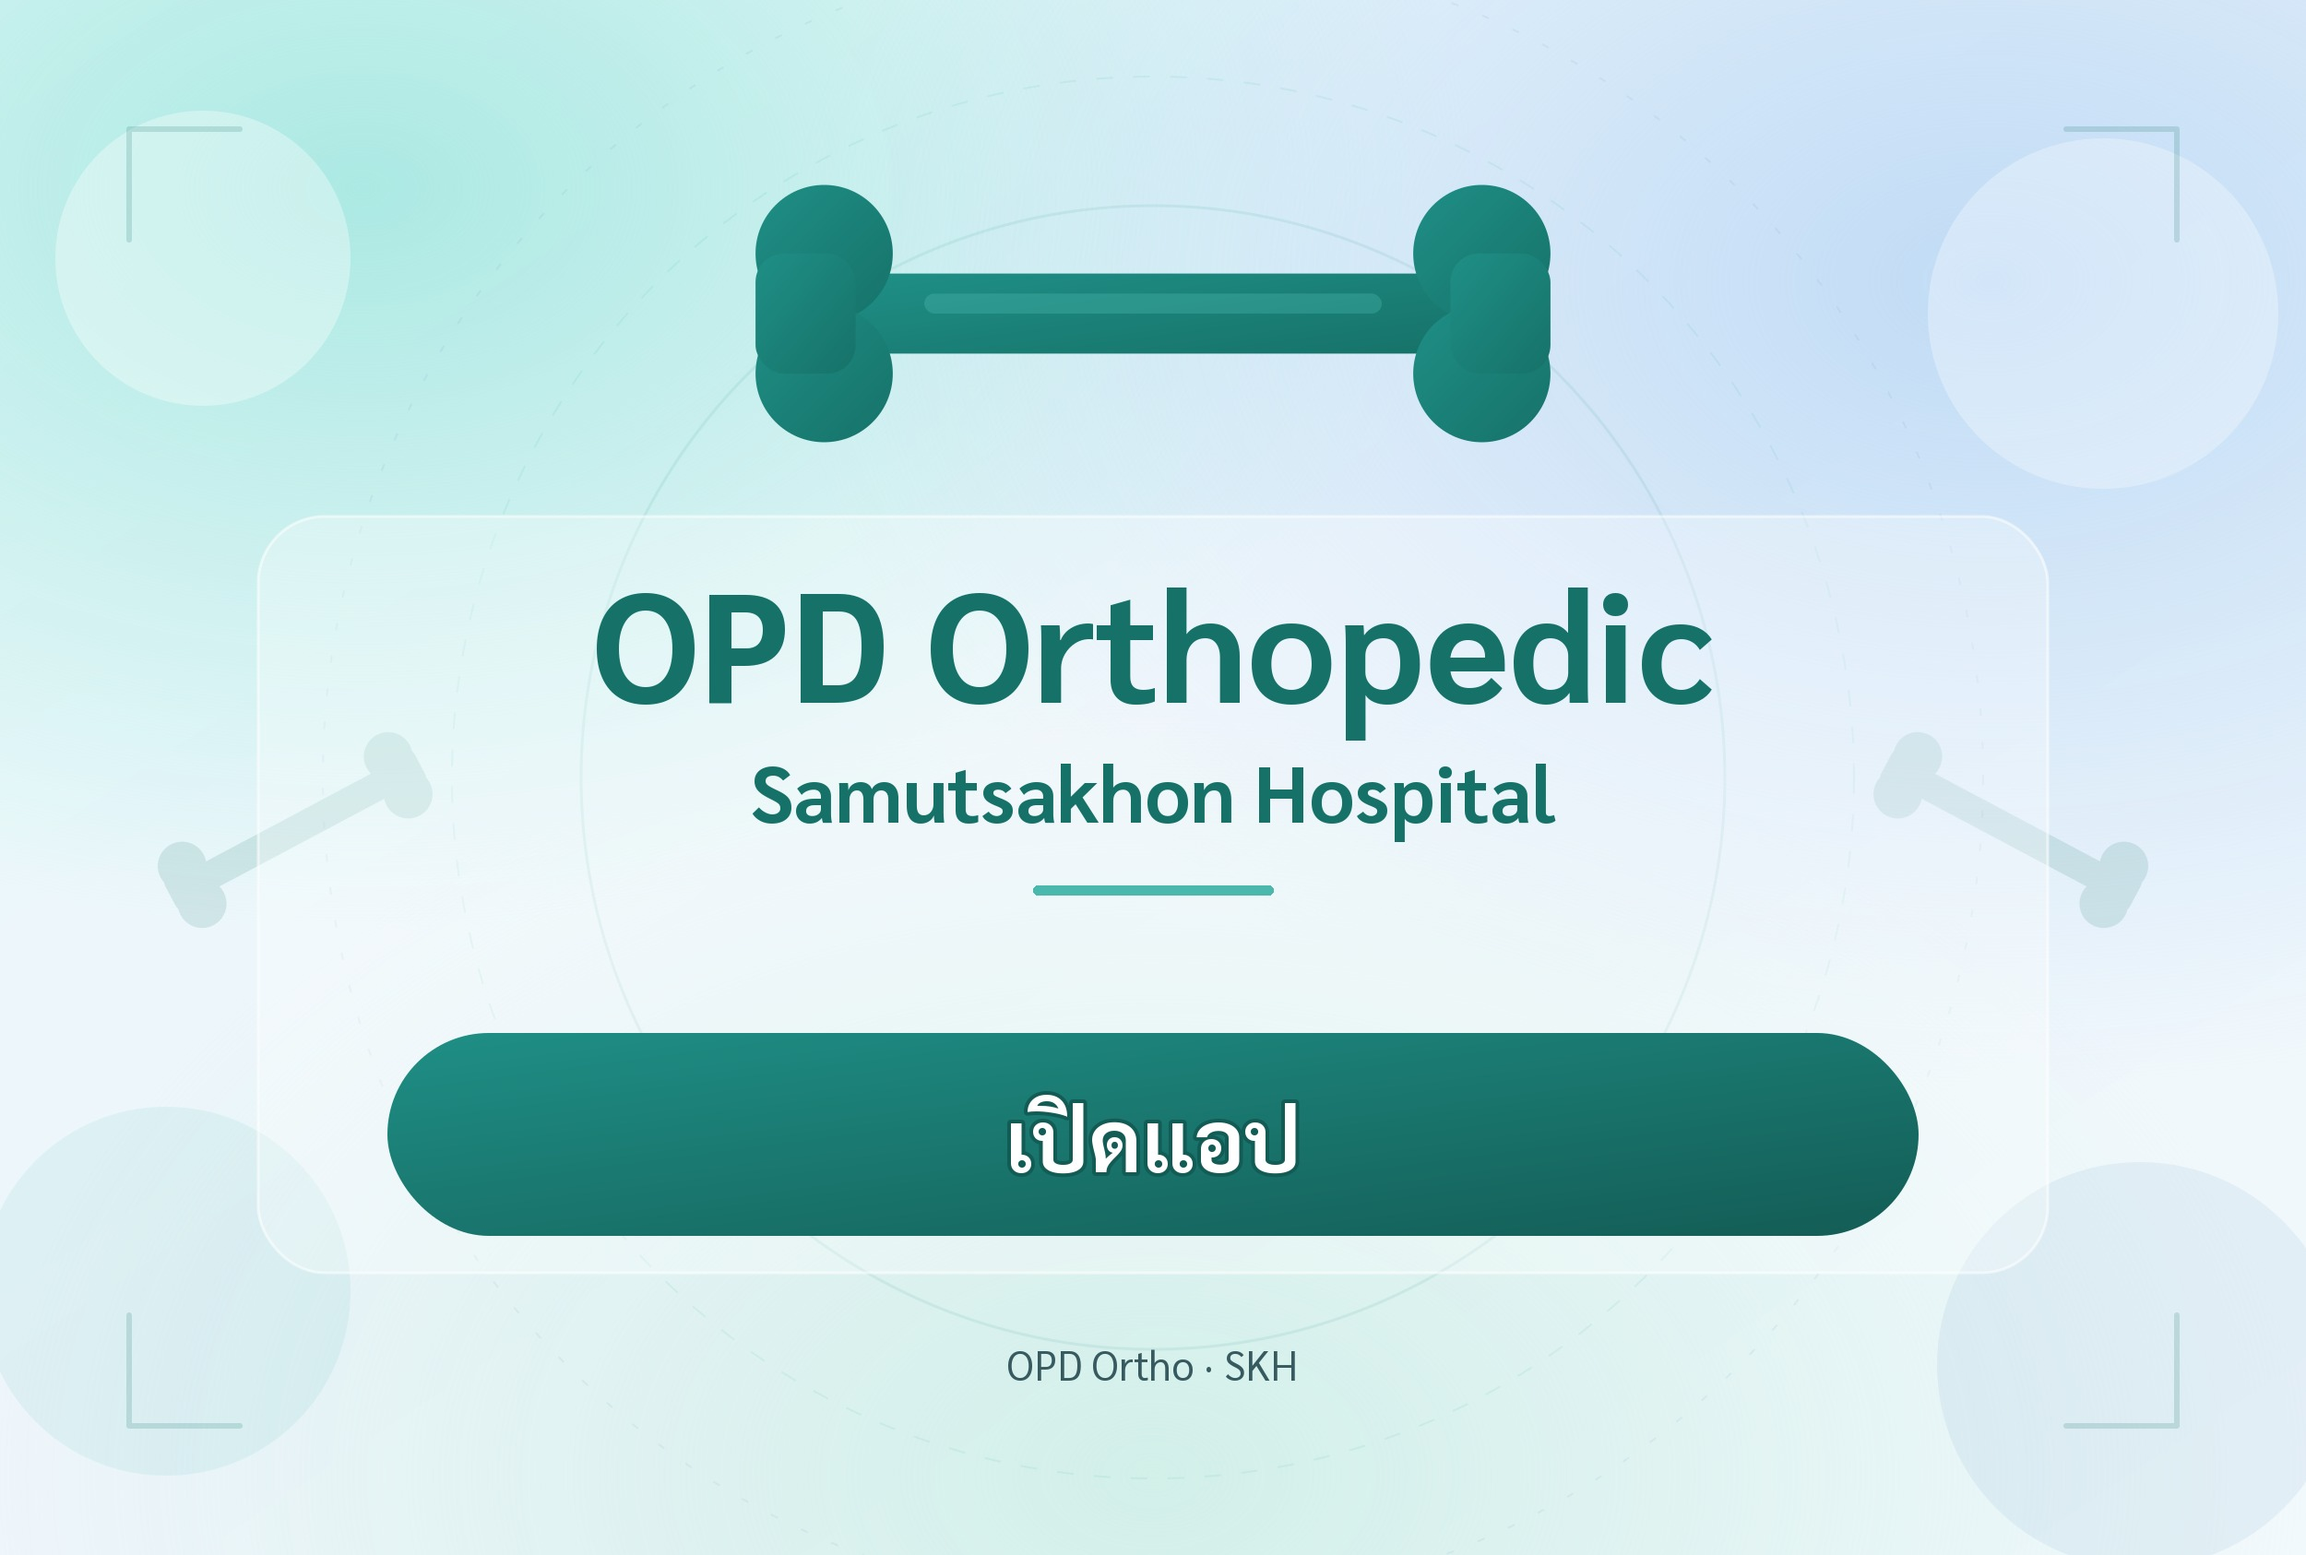
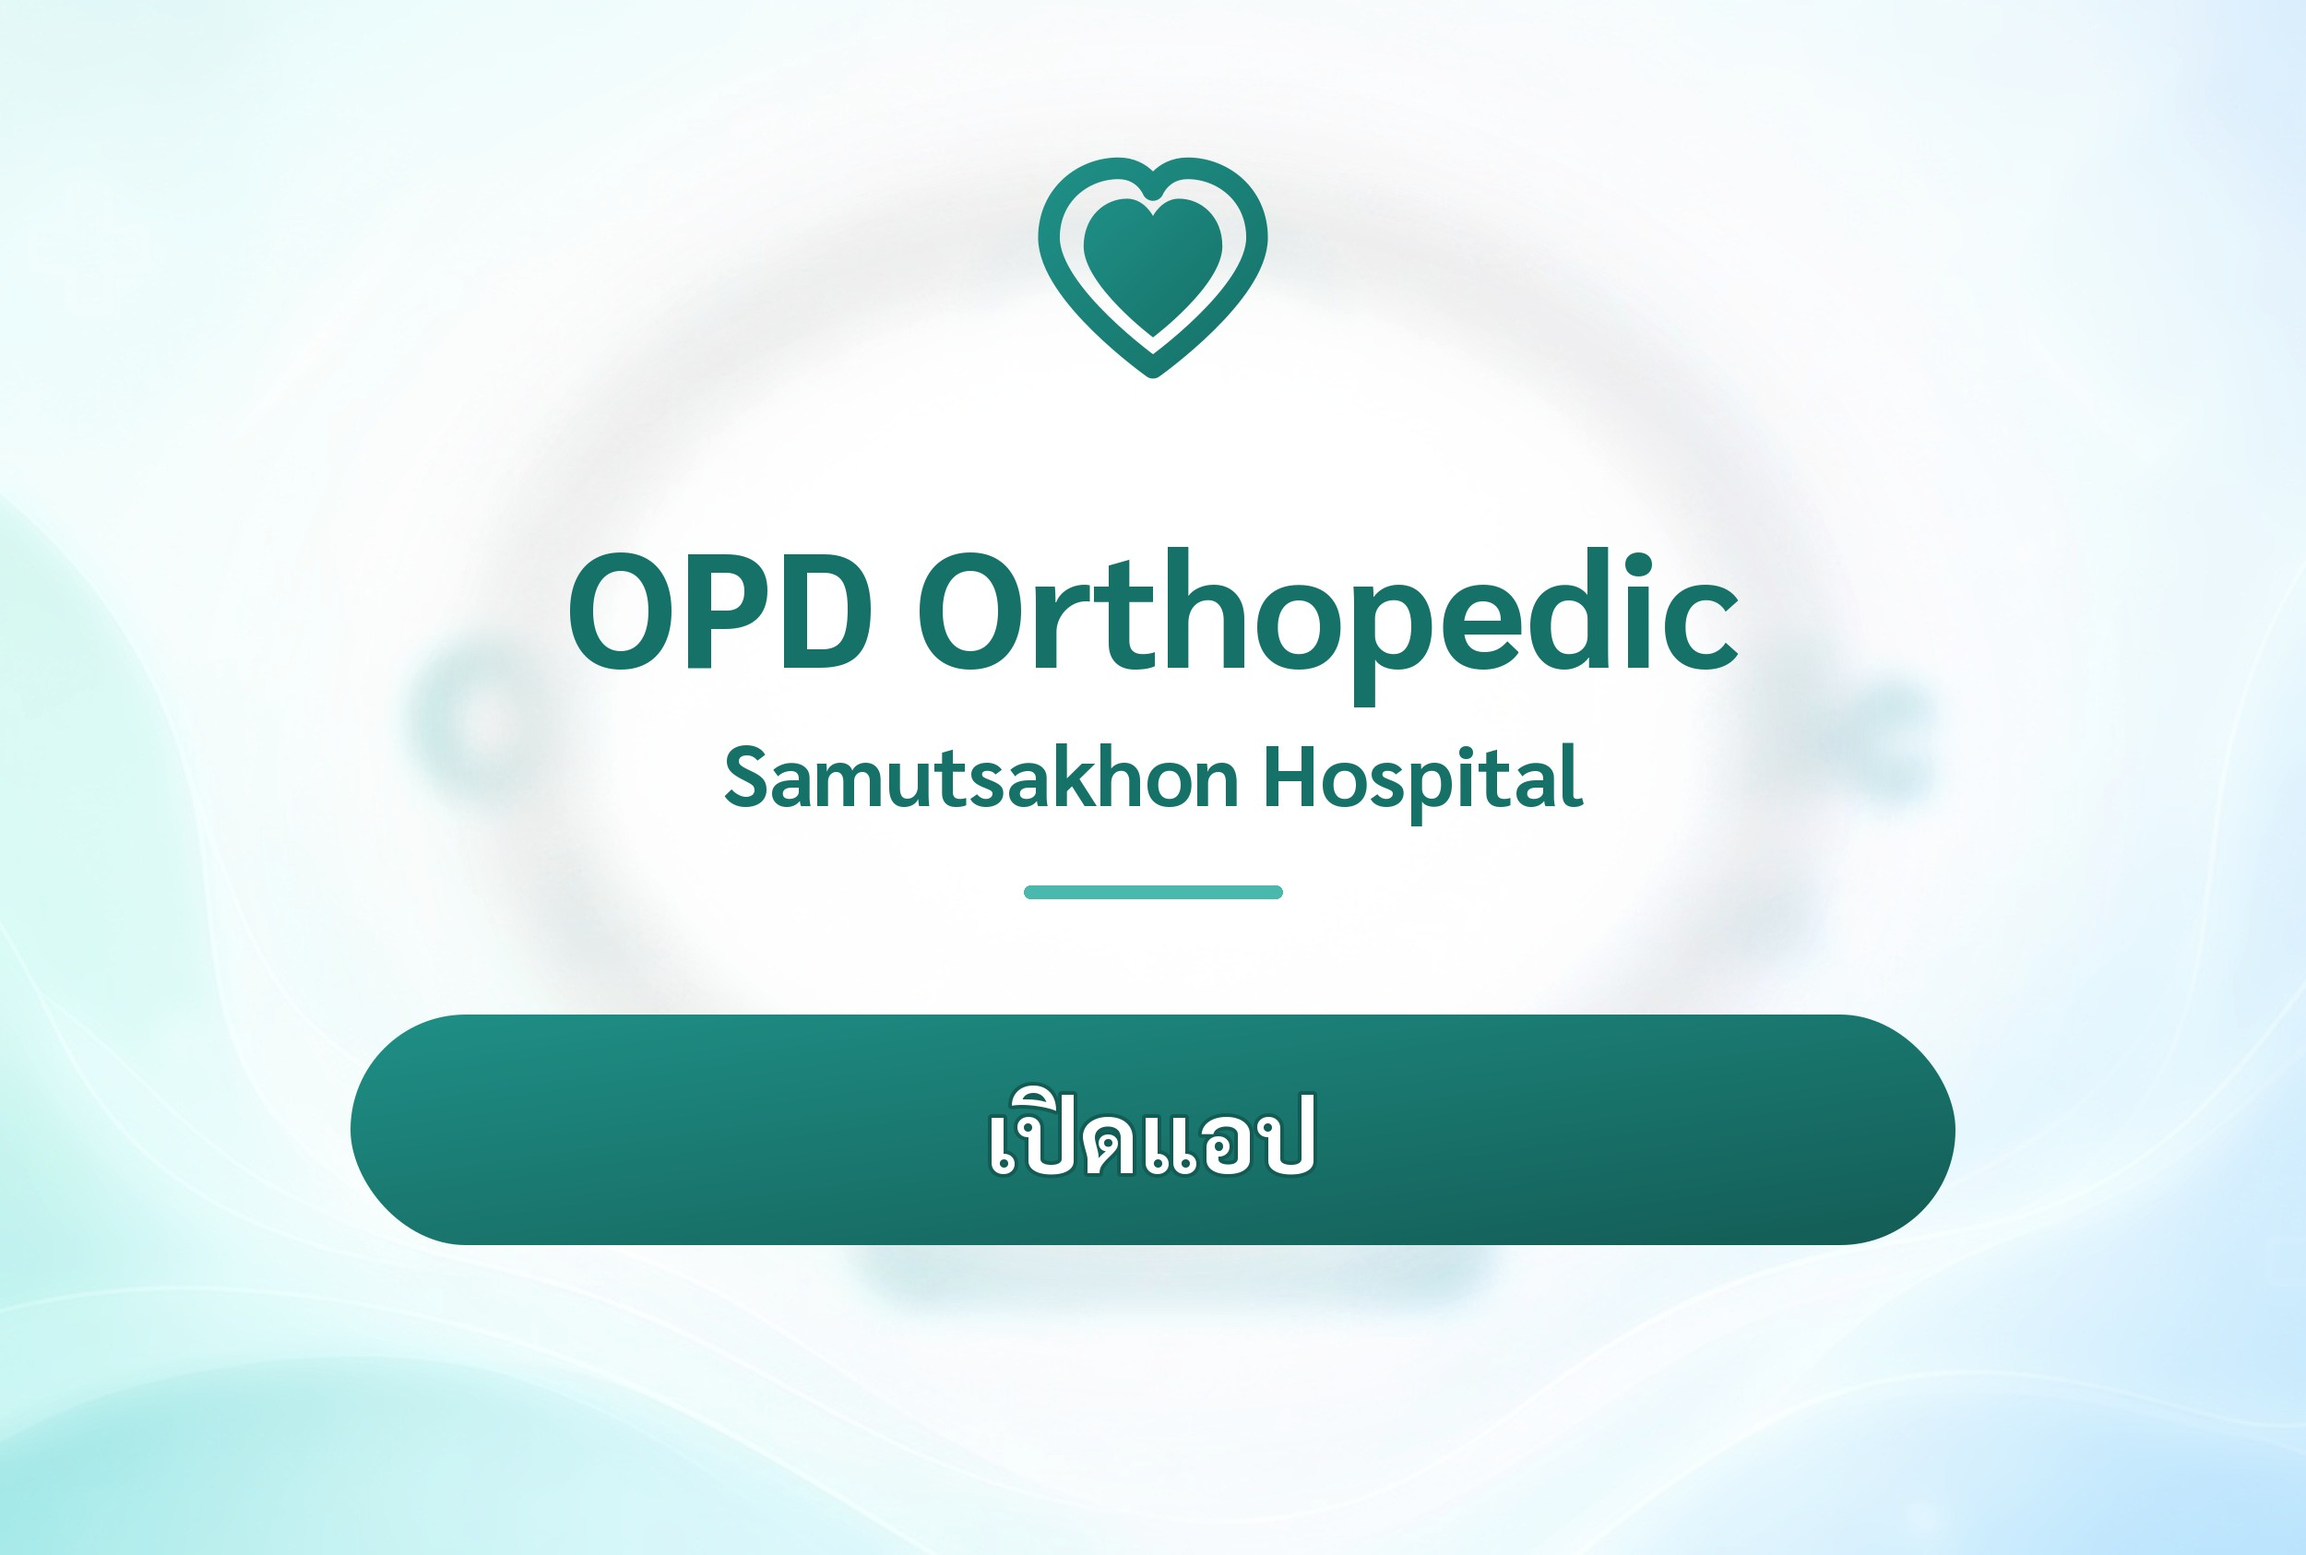
Restore heart LINE rich menu (solid inner, no EKG) (#104)
* Redesign rich menu with AI atmosphere and crisp Sarabun type

Replace the programmatic SVG banner with an AI teal-glass orthopedic
atmosphere (X-ray corners), then overlay a bone mark and Sarabun
titles/CTA so Thai stays sharp at 2500×1686 under LINE’s 1 MB limit.

* Restore heart + EKG rich menu design users preferred

Bring back the teal heart with heartbeat mark on the AI atmosphere,
keeping full-height 2500×1686 layout and crisp Sarabun CTA type.

* Replace EKG with solid inner heart on rich menu mark

Keep the teal heart outline and fill a smaller solid heart inside;
drop the heartbeat zigzag.

---------

diff --git a/line/rich-menu/generate-image.py b/line/rich-menu/generate-image.py
@@ -1,9 +1,9 @@
 #!/usr/bin/env python3
-"""Generate the OPD Ortho SKH LINE rich-menu image (2500x1686 JPEG).
+"""Compose the OPD Ortho SKH LINE rich-menu image (2500×1686 JPEG).
 
-Full-height menu for mobile readability: large bone mark, bold type,
-wide CTA, soft decorative accents. JPEG under LINE’s 1 MB limit.
-Thai text drawn with Pillow + Sarabun.
+Uses an AI-generated atmosphere (`source.jpg`) as the full-bleed background,
+then overlays a crisp heart mark (outline + solid inner), Sarabun typography, and CTA for mobile
+readability. Output must stay under LINE’s 1 MB limit.
 """
 
 from __future__ import annotations
@@ -12,43 +12,36 @@ from io import BytesIO
 from pathlib import Path
 
 import cairosvg
-from PIL import Image, ImageDraw, ImageFont
+from PIL import Image, ImageDraw, ImageEnhance, ImageFilter, ImageFont
 
-ROOT = Path(__file__).resolve().parents[2]
-OUT = Path(__file__).resolve().parent / "richmenu.jpg"
+DIR = Path(__file__).resolve().parent
+ROOT = DIR.parents[1]
+SOURCE = DIR / "source.jpg"
+OUT = DIR / "richmenu.jpg"
 FONT_BOLD = ROOT / "public" / "fonts" / "Sarabun-Bold.ttf"
-FONT_REG = ROOT / "public" / "fonts" / "Sarabun-Regular.ttf"
 
-# Full-size rich menu (2× compact height) — room for large iPhone type.
 W, H = 2500, 1686
 BRAND = (22, 114, 105)
 ACCENT = (75, 184, 174)
-MUTED = (55, 90, 96)
 
 
-def build_atmosphere_svg() -> str:
-    """Background, decorations, bone, and CTA pill (labels via Pillow)."""
+def cover_crop(im: Image.Image, tw: int, th: int) -> Image.Image:
+    im = im.convert("RGB")
+    sw, sh = im.size
+    scale = max(tw / sw, th / sh)
+    nw, nh = int(round(sw * scale)), int(round(sh * scale))
+    im = im.resize((nw, nh), Image.Resampling.LANCZOS)
+    left = (nw - tw) // 2
+    top = (nh - th) // 2
+    return im.crop((left, top, left + tw, top + th))
+
+
+def overlays_svg() -> str:
+    """Heart mark (outline + solid inner) and CTA pill (labels via Pillow)."""
     return f"""<?xml version="1.0" encoding="UTF-8"?>
 <svg xmlns="http://www.w3.org/2000/svg" width="{W}" height="{H}" viewBox="0 0 {W} {H}">
   <defs>
-    <linearGradient id="wash" x1="0%" y1="0%" x2="100%" y2="100%">
-      <stop offset="0%" stop-color="#eafbfa"/>
-      <stop offset="48%" stop-color="#eef5fb"/>
-      <stop offset="100%" stop-color="#f2f9fc"/>
-    </linearGradient>
-    <radialGradient id="blobTeal" cx="16%" cy="12%" r="48%">
-      <stop offset="0%" stop-color="#a9e8e2" stop-opacity="0.95"/>
-      <stop offset="100%" stop-color="#a9e8e2" stop-opacity="0"/>
-    </radialGradient>
-    <radialGradient id="blobBlue" cx="86%" cy="18%" r="52%">
-      <stop offset="0%" stop-color="#bcd9f5" stop-opacity="0.9"/>
-      <stop offset="100%" stop-color="#bcd9f5" stop-opacity="0"/>
-    </radialGradient>
-    <radialGradient id="blobMint" cx="50%" cy="95%" r="50%">
-      <stop offset="0%" stop-color="#cdeee6" stop-opacity="0.85"/>
-      <stop offset="100%" stop-color="#cdeee6" stop-opacity="0"/>
-    </radialGradient>
-    <linearGradient id="boneFill" x1="0%" y1="0%" x2="100%" y2="100%">
+    <linearGradient id="heartFill" x1="0%" y1="0%" x2="100%" y2="100%">
       <stop offset="0%" stop-color="#1f8f86"/>
       <stop offset="100%" stop-color="#167269"/>
     </linearGradient>
@@ -56,72 +49,35 @@ def build_atmosphere_svg() -> str:
       <stop offset="0%" stop-color="#1f8f86"/>
       <stop offset="100%" stop-color="#135c55"/>
     </linearGradient>
+    <filter id="softShadow" x="-40%" y="-40%" width="180%" height="180%">
+      <feDropShadow dx="0" dy="12" stdDeviation="20" flood-color="#0d4a44" flood-opacity="0.28"/>
+    </filter>
   </defs>
 
-  <rect width="{W}" height="{H}" fill="url(#wash)"/>
-  <rect width="{W}" height="{H}" fill="url(#blobTeal)"/>
-  <rect width="{W}" height="{H}" fill="url(#blobBlue)"/>
-  <rect width="{W}" height="{H}" fill="url(#blobMint)"/>
-
-  <!-- Soft glass orbs -->
-  <circle cx="220" cy="280" r="170" fill="#ffffff" opacity="0.38"/>
-  <circle cx="2280" cy="340" r="200" fill="#ffffff" opacity="0.32"/>
-  <circle cx="200" cy="1420" r="210" fill="#4bb8ae" opacity="0.12"/>
-  <circle cx="2300" cy="1500" r="230" fill="#3574b5" opacity="0.09"/>
-
-  <!-- Concentric dashed rings -->
-  <circle cx="1250" cy="843" r="560" fill="none" stroke="#1f8f86" stroke-width="3" opacity="0.11"/>
-  <circle cx="1250" cy="843" r="700" fill="none" stroke="#4bb8ae" stroke-width="2.5" opacity="0.14"
-    stroke-dasharray="18 22"/>
-  <circle cx="1250" cy="843" r="860" fill="none" stroke="#3574b5" stroke-width="2" opacity="0.10"
-    stroke-dasharray="8 28"/>
-
-  <!-- Corner measure ticks -->
-  <g stroke="#167269" stroke-width="7" stroke-linecap="round" opacity="0.20">
-    <path d="M150 150 H280 M150 150 V280"/>
-    <path d="M2350 150 H2220 M2350 150 V280"/>
-    <path d="M150 1536 H280 M150 1536 V1406"/>
-    <path d="M2350 1536 H2220 M2350 1536 V1406"/>
+  <!-- Heart outline with solid inner heart -->
+  <g transform="translate(1250, 300) scale(2.35)" filter="url(#softShadow)">
+    <path d="M0 42
+      C0 42 -48 8 -48 -18
+      C-48 -38 -32 -50 -16 -50
+      C-4 -50 0 -40 0 -40
+      C0 -40 4 -50 16 -50
+      C32 -50 48 -38 48 -18
+      C48 8 0 42 0 42 Z"
+      fill="none" stroke="url(#heartFill)" stroke-width="10"
+      stroke-linejoin="round" stroke-linecap="round"/>
+    <!-- Solid inner heart -->
+    <path d="M0 28
+      C0 28 -32 4 -32 -14
+      C-32 -28 -22 -36 -12 -36
+      C-4 -36 0 -28 0 -28
+      C0 -28 4 -36 12 -36
+      C22 -36 32 -28 32 -14
+      C32 4 0 28 0 28 Z"
+      fill="url(#heartFill)"/>
   </g>
 
-  <!-- Faded side bones -->
-  <g transform="translate(300, 920) rotate(-30) scale(0.58)" opacity="0.13">
-    <rect x="-210" y="-28" width="420" height="56" rx="22" fill="#167269"/>
-    <circle cx="-230" cy="-42" r="48" fill="#167269"/>
-    <circle cx="-230" cy="42" r="48" fill="#167269"/>
-    <rect x="-278" y="-42" width="70" height="84" rx="20" fill="#167269"/>
-    <circle cx="230" cy="-42" r="48" fill="#167269"/>
-    <circle cx="230" cy="42" r="48" fill="#167269"/>
-    <rect x="208" y="-42" width="70" height="84" rx="20" fill="#167269"/>
-  </g>
-  <g transform="translate(2200, 920) rotate(30) scale(0.58)" opacity="0.13">
-    <rect x="-210" y="-28" width="420" height="56" rx="22" fill="#167269"/>
-    <circle cx="-230" cy="-42" r="48" fill="#167269"/>
-    <circle cx="-230" cy="42" r="48" fill="#167269"/>
-    <rect x="-278" y="-42" width="70" height="84" rx="20" fill="#167269"/>
-    <circle cx="230" cy="-42" r="48" fill="#167269"/>
-    <circle cx="230" cy="42" r="48" fill="#167269"/>
-    <rect x="208" y="-42" width="70" height="84" rx="20" fill="#167269"/>
-  </g>
-
-  <!-- Hero bone -->
-  <g transform="translate(1250, 330) scale(1.65)">
-    <rect x="-210" y="-28" width="420" height="56" rx="22" fill="url(#boneFill)"/>
-    <circle cx="-230" cy="-42" r="48" fill="url(#boneFill)"/>
-    <circle cx="-230" cy="42" r="48" fill="url(#boneFill)"/>
-    <rect x="-278" y="-42" width="70" height="84" rx="20" fill="url(#boneFill)"/>
-    <circle cx="230" cy="-42" r="48" fill="url(#boneFill)"/>
-    <circle cx="230" cy="42" r="48" fill="url(#boneFill)"/>
-    <rect x="208" y="-42" width="70" height="84" rx="20" fill="url(#boneFill)"/>
-    <rect x="-160" y="-14" width="320" height="14" rx="7" fill="#4bb8ae" opacity="0.35"/>
-  </g>
-
-  <!-- Soft focus plate -->
-  <rect x="260" y="560" width="1980" height="780" rx="80"
-    fill="#ffffff" fill-opacity="0.30" stroke="#ffffff" stroke-opacity="0.55" stroke-width="3"/>
-
-  <!-- Wide CTA -->
-  <rect x="400" y="1140" width="1700" height="230" rx="115" fill="url(#ctaFill)"/>
+  <rect x="380" y="1100" width="1740" height="250" rx="125"
+    fill="url(#ctaFill)" filter="url(#softShadow)"/>
 </svg>
 """
 
@@ -148,36 +104,49 @@ def centered_text(
     draw.text((x, y), text, **kwargs)
 
 
+def build_atmosphere() -> Image.Image:
+    if not SOURCE.exists():
+        raise SystemExit(f"Missing AI atmosphere: {SOURCE}")
+    base = cover_crop(Image.open(SOURCE), W, H)
+    bright = ImageEnhance.Brightness(base).enhance(1.05)
+    mask = Image.new("L", (W, H), 0)
+    ImageDraw.Draw(mask).ellipse((360, 160, 2140, 1520), fill=200)
+    mask = mask.filter(ImageFilter.GaussianBlur(radius=110))
+    return Image.composite(bright, base, mask)
+
+
 def main() -> None:
-    png_bytes = cairosvg.svg2png(
-        bytestring=build_atmosphere_svg().encode("utf-8"),
-        output_width=W,
-        output_height=H,
-    )
-    im = Image.open(BytesIO(png_bytes)).convert("RGB")
+    base = build_atmosphere()
+    overlay = Image.open(
+        BytesIO(
+            cairosvg.svg2png(
+                bytestring=overlays_svg().encode("utf-8"),
+                output_width=W,
+                output_height=H,
+            )
+        )
+    ).convert("RGBA")
+    im = Image.alpha_composite(base.convert("RGBA"), overlay).convert("RGB")
     draw = ImageDraw.Draw(im)
 
-    title = ImageFont.truetype(str(FONT_BOLD), 172)
-    hospital = ImageFont.truetype(str(FONT_BOLD), 90)
-    cta = ImageFont.truetype(str(FONT_BOLD), 96)
-    footer = ImageFont.truetype(str(FONT_REG), 46)
+    title = ImageFont.truetype(str(FONT_BOLD), 176)
+    hospital = ImageFont.truetype(str(FONT_BOLD), 92)
+    cta = ImageFont.truetype(str(FONT_BOLD), 104)
 
-    centered_text(draw, "OPD Orthopedic", 730, title, BRAND)
-    centered_text(draw, "Samutsakhon Hospital", 890, hospital, BRAND)
-    draw.rounded_rectangle((1110, 990, 1390, 1002), radius=6, fill=ACCENT)
-
+    centered_text(draw, "OPD Orthopedic", 680, title, BRAND)
+    centered_text(draw, "Samutsakhon Hospital", 850, hospital, BRAND)
+    draw.rounded_rectangle((1110, 960, 1390, 974), radius=7, fill=ACCENT)
     centered_text(
         draw,
         "เปิดแอป",
-        1255,
+        1225,
         cta,
         (255, 255, 255),
-        stroke_width=5,
+        stroke_width=4,
         stroke_fill=(19, 92, 85),
     )
-    centered_text(draw, "OPD Ortho · SKH", 1520, footer, MUTED)
 
-    im.save(OUT, format="JPEG", quality=92, optimize=True, progressive=True)
+    im.save(OUT, format="JPEG", quality=90, optimize=True, progressive=True)
     size_kb = OUT.stat().st_size / 1024
     print(f"Wrote {OUT} ({im.size[0]}x{im.size[1]}, {size_kb:.1f} KB)")
     if size_kb > 1024:

diff --git a/line/rich-menu/README.md b/line/rich-menu/README.md
@@ -7,8 +7,16 @@ Single full-area rich menu that opens the main LIFF app URL:
 ## Files
 
 - `richmenu.jpg` — 2500×1686 full-size image uploaded to LINE (JPEG under 1 MB)
+- `source.jpg` — AI-generated teal-glass medical atmosphere
 - `config.json` — Messaging API rich menu object (one URI area, full size)
-- `generate-image.py` — regenerates `richmenu.jpg` from the app theme
+- `generate-image.py` — composites `source.jpg` + heart mark + Sarabun type
+
+## Design
+
+Full-bleed mint/teal atmosphere with soft wave lines and medical crosses,
+a heart mark (outline + solid inner), **OPD Orthopedic / Samutsakhon Hospital**,
+and a wide **เปิดแอป** CTA. Typography is drawn with Sarabun so Thai stays
+sharp on iPhone-sized chat menus.
 
 ## Regenerate the image
 
@@ -16,6 +24,9 @@ Single full-area rich menu that opens the main LIFF app URL:
 pip install pillow cairosvg
 python3 line/rich-menu/generate-image.py
 ```
+
+To refresh the atmosphere, replace `source.jpg` with a new AI render
+(≈16:9 teal-glass medical scene, empty center), then regenerate.
 
 ## Deploy
 
